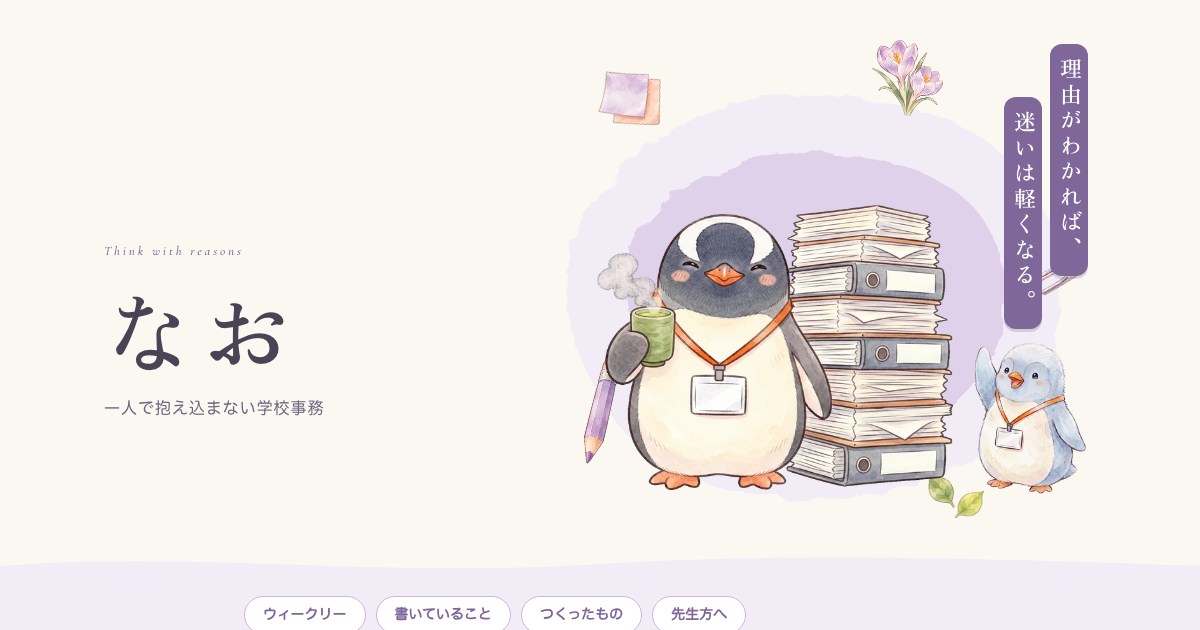
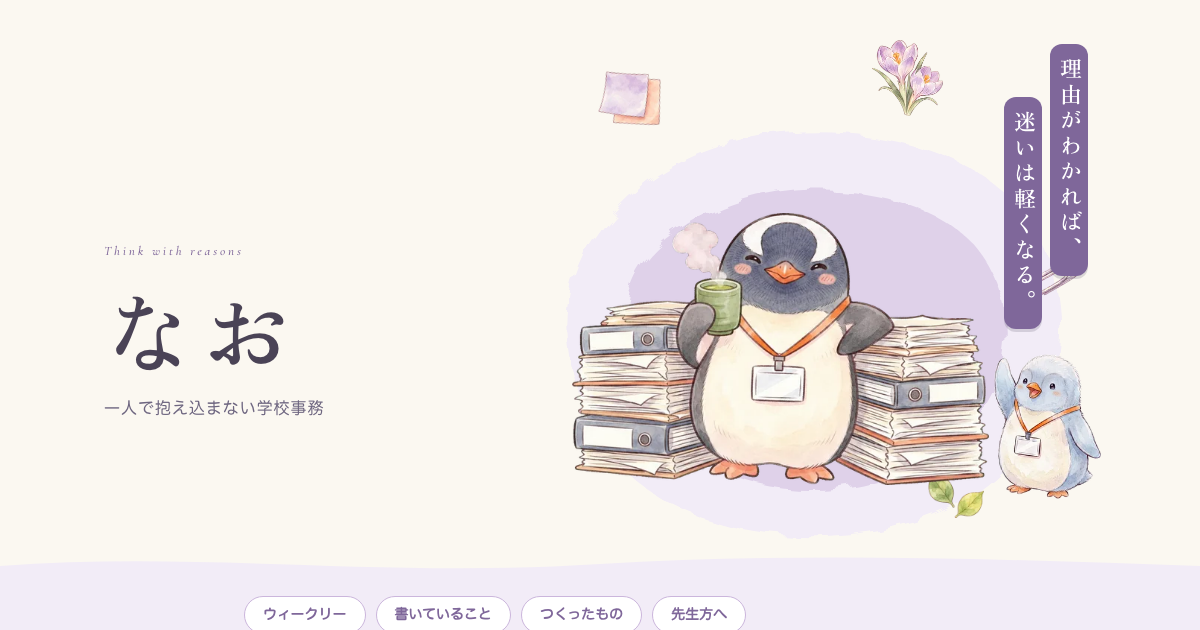
最初の画面の大人を b2 にし、予算管理ツールと電話・来客対応マニュアルをつくったものに足す

Changed region(s): [[0.4625, 0.2413, 0.925, 0.8143]]

diff --git a/index.html b/index.html
@@ -17,7 +17,7 @@
 <link rel="preconnect" href="https://fonts.googleapis.com">
 <link rel="preconnect" href="https://fonts.gstatic.com" crossorigin>
 <link rel="stylesheet" href="https://fonts.googleapis.com/css2?family=Cormorant+Garamond:ital,wght@1,500&amp;display=swap">
-<link rel="stylesheet" href="https://fonts.googleapis.com/css2?family=Zen+Old+Mincho:wght@600&amp;text=0123456789EILN%E3%80%81%E3%80%82%E3%80%90%E3%80%91%E3%81%84%E3%81%88%E3%81%8A%E3%81%8B%E3%81%8C%E3%81%8D%E3%81%8F%E3%81%93%E3%81%99%E3%81%9F%E3%81%A3%E3%81%A4%E3%81%A6%E3%81%A7%E3%81%A8%E3%81%AA%E3%81%AB%E3%81%AE%E3%81%AF%E3%81%B0%E3%81%B8%E3%81%BE%E3%82%82%E3%82%8B%E3%82%8C%E3%82%8F%E3%82%A3%E3%82%A6%E3%82%AB%E3%82%AE%E3%82%AF%E3%82%B9%E3%83%83%E3%83%8A%E3%83%8F%E3%83%90%E3%83%9A%E3%83%A9%E3%83%AA%E3%83%B3%E3%83%BC%E4%B8%80%E4%BA%8B%E4%BA%94%E4%BA%BA%E5%85%88%E5%85%AC%E5%88%86%E5%88%A4%E5%8B%99%E5%8F%B7%E5%AD%A6%E5%AE%9A%E5%AE%9F%E5%B1%8A%E5%B8%B8%E5%BA%A6%E5%BC%8F%E6%8A%B1%E6%96%B0%E6%96%B9%E6%97%A5%E6%9B%B8%E6%9C%80%E6%A0%A1%E7%90%86%E7%94%9F%E7%94%B1%E7%AC%AC%E7%B7%A8%E8%A6%A7%E8%BB%BD%E8%BE%BC%E8%BF%B7%E8%BF%BD%E9%80%B1%EF%BD%9C&amp;display=swap">
+<link rel="stylesheet" href="https://fonts.googleapis.com/css2?family=Zen+Old+Mincho:wght@600&amp;text=0123456789EILN%E3%80%81%E3%80%82%E3%80%90%E3%80%91%E3%81%84%E3%81%88%E3%81%8A%E3%81%8B%E3%81%8C%E3%81%8D%E3%81%8F%E3%81%93%E3%81%99%E3%81%9F%E3%81%A3%E3%81%A4%E3%81%A6%E3%81%A7%E3%81%A8%E3%81%AA%E3%81%AB%E3%81%AE%E3%81%AF%E3%81%B0%E3%81%B8%E3%81%BE%E3%82%82%E3%82%8B%E3%82%8C%E3%82%8F%E3%82%A2%E3%82%A3%E3%82%A6%E3%82%AB%E3%82%AE%E3%82%AF%E3%82%B9%E3%83%83%E3%83%84%E3%83%8A%E3%83%8B%E3%83%8F%E3%83%90%E3%83%9A%E3%83%9E%E3%83%A5%E3%83%A9%E3%83%AA%E3%83%AB%E3%83%B3%E3%83%BB%E3%83%BC%E4%B8%80%E4%BA%88%E4%BA%8B%E4%BA%94%E4%BA%BA%E5%85%88%E5%85%AC%E5%88%86%E5%88%A4%E5%8B%99%E5%8F%B7%E5%AD%A6%E5%AE%9A%E5%AE%9F%E5%AE%A2%E5%AF%BE%E5%B1%8A%E5%B8%B8%E5%BA%A6%E5%BC%8F%E5%BF%9C%E6%8A%B1%E6%96%B0%E6%96%B9%E6%97%A5%E6%9B%B8%E6%9C%80%E6%9D%A5%E6%A0%A1%E7%90%86%E7%94%9F%E7%94%B1%E7%AC%AC%E7%AE%97%E7%AE%A1%E7%B7%A8%E8%A6%A7%E8%A9%B1%E8%BB%BD%E8%BE%BC%E8%BF%B7%E8%BF%BD%E9%80%B1%E9%9B%BB%EF%BD%9C&amp;display=swap">
 <link rel="stylesheet" href="style.css">
 <script>
   /* 動きの合図。動きを減らす設定の人には付けない。GSAPが読めなければ外して全部見せる。 */
@@ -163,6 +163,26 @@
               <span class="work-title">カスハラ判定一覧</span>
               <span class="work-desc">保護者や地域の人の言動が、カスハラにあたるかどうか。電話・来校・SNSなど場面ごとに「妥当・グレー・アウト」で引ける早見表</span>
               <span class="work-cta">ひらく →</span>
+            </span>
+          </a>
+        </li>
+        <li class="work reveal">
+          <a href="https://note.com/nao_school/n/nb528a6267586?magazine_key=m1932de6f1f8c">
+            <span class="work-art"><img src="img/card-budget.webp" alt="" loading="lazy"></span>
+            <span class="work-body">
+              <span class="work-title">予算管理ツール</span>
+              <span class="work-desc">引き継ぎ資料も、残額確認も、来年度の要求書も。学校・自治体の予算まわりを1ファイルにまとめた管理ツール</span>
+              <span class="work-cta">くわしく →</span>
+            </span>
+          </a>
+        </li>
+        <li class="work reveal">
+          <a href="https://note.com/nao_school/n/nacf1b6c350fe?magazine_key=m1932de6f1f8c">
+            <span class="work-art"><img src="img/card-phone.webp" alt="" loading="lazy"></span>
+            <span class="work-body">
+              <span class="work-title">電話・来客対応マニュアル</span>
+              <span class="work-desc">配ってすぐ使える、学校の電話・来客対応マニュアル。受話器を取る手が、少しだけ軽くなる</span>
+              <span class="work-cta">くわしく →</span>
             </span>
           </a>
         </li>

diff --git a/style.css b/style.css
@@ -120,7 +120,7 @@ a:focus-visible {
 .blob {
   position: absolute;
   left: -10%;
-  top: 4%;
+  top: 12%;
   width: 116%;
   height: auto;
   filter: url(#torn);
@@ -131,16 +131,16 @@ a:focus-visible {
 
 .hero-adult {
   position: absolute;
-  left: 2%;
-  bottom: 4%;
-  width: 70%;
+  left: -3%;
+  bottom: 5%;
+  width: 82%;
   z-index: 2;
 }
 .hero-kid {
   position: absolute;
-  right: 2%;
-  bottom: 3%;
-  width: 22%;
+  right: -1%;
+  bottom: 2%;
+  width: 21%;
   z-index: 2;
 }
 
@@ -168,7 +168,7 @@ a:focus-visible {
 
 /* バックナンバーの最初の画面（小型） */
 .hero-sub .hero-art { max-width: 340px; }
-.hero-sub .hero-adult { left: 18%; width: 58%; }
+.hero-sub .hero-adult { left: 18%; width: 58%; bottom: 4%; }
 .hero-sub .hero-name { font-size: clamp(28px, 7.6vw, 42px); letter-spacing: .06em; }
 .hero-sub .hero-handle { max-width: 34em; line-height: 1.8; }
 .hero-back { font-size: 14px; margin-bottom: 10px; }
